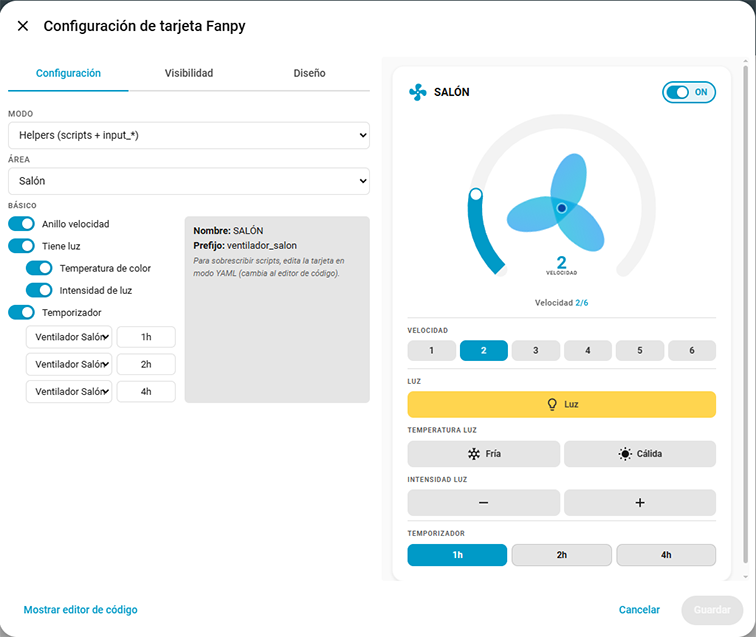
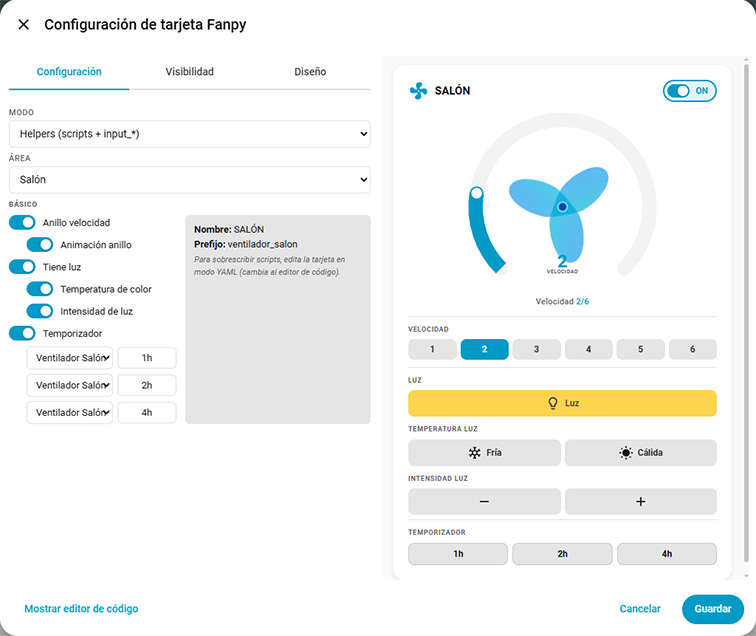
fix: include animation setup disable option

diff --git a/src/fanpy-card-editor.js b/src/fanpy-card-editor.js
@@ -140,6 +140,7 @@ class FanpyCardEditor extends HTMLElement {
     const hasTemp = isEntityMode ? (c.has_light_temperature === true) : (c.has_light_temperature !== false);
     const hasInt = isEntityMode ? (c.has_light_intensity === true) : (c.has_light_intensity !== false);
     const hasRing = c.has_ring !== false;
+    const hasAnim = c.has_animation !== false;
     const fanEntities = Object.keys(hass.states || {}).filter(e => e.startsWith("switch.")).sort();
     const lightEntities = Object.keys(hass.states || {}).filter(e => e.startsWith("light.")).sort();
     const timerEntities = Object.keys(hass.states || {})
@@ -289,6 +290,15 @@ class FanpyCardEditor extends HTMLElement {
               <span class="toggle-thumb"></span>
             </label>
             <label for="tog-ring">${L("has_ring")}</label>
+          </div>
+
+          <div class="toggle-row indent">
+            <label class="toggle-switch">
+              <input type="checkbox" id="tog-anim" ${hasAnim && hasRing ? "checked" : ""} ${!hasRing ? "disabled" : ""}>
+              <span class="toggle-track"></span>
+              <span class="toggle-thumb"></span>
+            </label>
+            <label for="tog-anim" class="${!hasRing ? "disabled" : ""}">${L("has_animation")}</label>
           </div>
 
           <div class="toggle-row">
@@ -466,6 +476,7 @@ class FanpyCardEditor extends HTMLElement {
     const cbTemp = root.getElementById("tog-temp");
     const cbInt = root.getElementById("tog-int");
     const cbRing = root.getElementById("tog-ring");
+    const cbAnim = root.getElementById("tog-anim");
 
     const toggleLabel = (cb) => {
       if (!cb) return;
@@ -485,6 +496,15 @@ class FanpyCardEditor extends HTMLElement {
         cbInt.disabled = !enabled;
         if (!enabled) cbInt.checked = false;
         toggleLabel(cbInt);
+      }
+    };
+
+    const syncAnimToggle = () => {
+      const enabled = cbRing && cbRing.checked;
+      if (cbAnim) {
+        cbAnim.disabled = !enabled;
+        if (!enabled) cbAnim.checked = false;
+        toggleLabel(cbAnim);
       }
     };
 
@@ -524,6 +544,7 @@ class FanpyCardEditor extends HTMLElement {
       if (cbTemp) this._config.has_light_temperature = cbLight.checked && cbTemp.checked;
       if (cbInt) this._config.has_light_intensity = cbLight.checked && cbInt.checked;
       if (cbRing) this._config.has_ring = cbRing.checked;
+      if (cbAnim) this._config.has_animation = cbRing.checked && cbAnim.checked;
       if (cbTimer) {
         this._config.has_timer = cbTimer.checked;
         if (timerFields) timerFields.style.display = cbTimer.checked ? "" : "none";
@@ -541,7 +562,13 @@ class FanpyCardEditor extends HTMLElement {
     }
     if (cbTemp) cbTemp.addEventListener("change", saveToggles);
     if (cbInt) cbInt.addEventListener("change", saveToggles);
-    if (cbRing) cbRing.addEventListener("change", saveToggles);
+    if (cbRing) {
+      cbRing.addEventListener("change", () => {
+        syncAnimToggle();
+        saveToggles();
+      });
+    }
+    if (cbAnim) cbAnim.addEventListener("change", saveToggles);
     if (cbTimer) cbTimer.addEventListener("change", saveToggles);
     const n = this._numTimers();
     for (let i = 1; i <= n; i++) {

diff --git a/src/fanpy-card.js b/src/fanpy-card.js
@@ -547,7 +547,7 @@ class FanpyCard extends HTMLElement {
       .replace(/^_|_$/g, "");
   }
 
-  _buildRingSVG(numVel, activeVel, isOn) {
+  _buildRingSVG(numVel, activeVel, isOn, hasAnim) {
     const CX = 160, CY = 160, R = 145, SW = 24;
     const MAX = 270, ROT = 135;
     const toRad = (d) => d * Math.PI / 180;
@@ -593,7 +593,7 @@ class FanpyCard extends HTMLElement {
         <path d="${actArc || "M 0 0"}" class="arc-active${isOn ? "" : " arc-idle"}" stroke-width="${SW}" fill="none"/>
       </g>
       <circle cx="${dx}" cy="${dy}" r="${dotR}" class="arc-dot${isOn ? "" : " arc-idle"}"/>
-      <g class="center-blades${isOn ? " spin" : ""}" style="--fc-spin-duration: ${spinDur}s">
+      <g class="center-blades${isOn && hasAnim ? " spin" : ""}" style="--fc-spin-duration: ${spinDur}s">
         <path d="${blade}" fill="url(#fc-blade)" opacity="${isOn ? "0.7" : "0.2"}"/>
         <path d="${blade}" fill="url(#fc-blade)" opacity="${isOn ? "0.7" : "0.2"}" transform="rotate(120 160 160)"/>
         <path d="${blade}" fill="url(#fc-blade)" opacity="${isOn ? "0.7" : "0.2"}" transform="rotate(240 160 160)"/>
@@ -658,6 +658,7 @@ class FanpyCard extends HTMLElement {
     const hasTemp = hasLight && config.has_light_temperature !== false;
     const hasInt = hasLight && config.has_light_intensity !== false;
     const hasRing = config.has_ring !== false;
+    const hasAnim = config.has_animation !== false;
     const hasTimer = config.has_timer !== false;
     const numTimers = this._numTimers();
 
@@ -677,7 +678,7 @@ class FanpyCard extends HTMLElement {
         ${hasRing ? `
         <div class="ring-section">
           <div class="speed-ring" data-cmd="ring">
-            ${this._buildRingSVG(numVel, Math.max(1, Math.min(activeVel || 1, numVel)), isOn)}
+            ${this._buildRingSVG(numVel, Math.max(1, Math.min(activeVel || 1, numVel)), isOn, hasAnim)}
           </div>
           <div class="speed-status">${isOn ? (showSpeed ? `${t(this._hass, "velocidad")} <span class="on">${vel}/${numVel}</span>` : `<span class="on">${t(this._hass, "on")}</span>`) : t(this._hass, "off")}</div>
         </div>